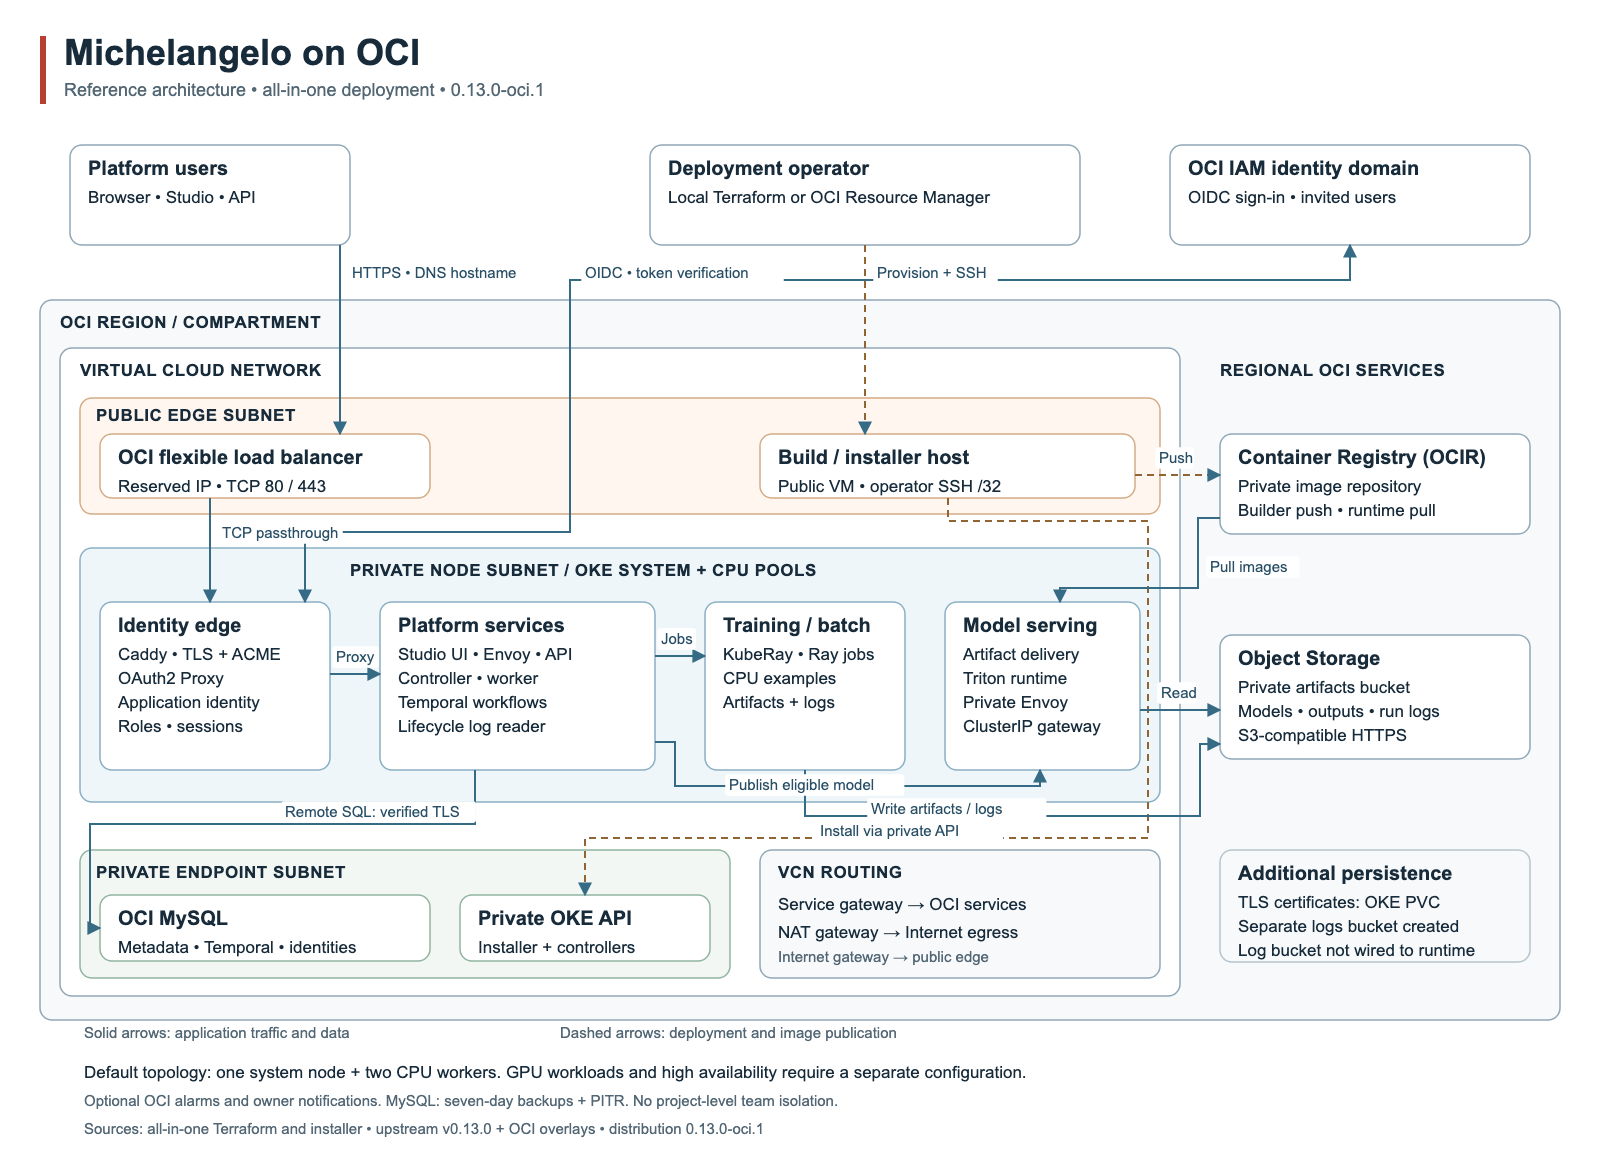
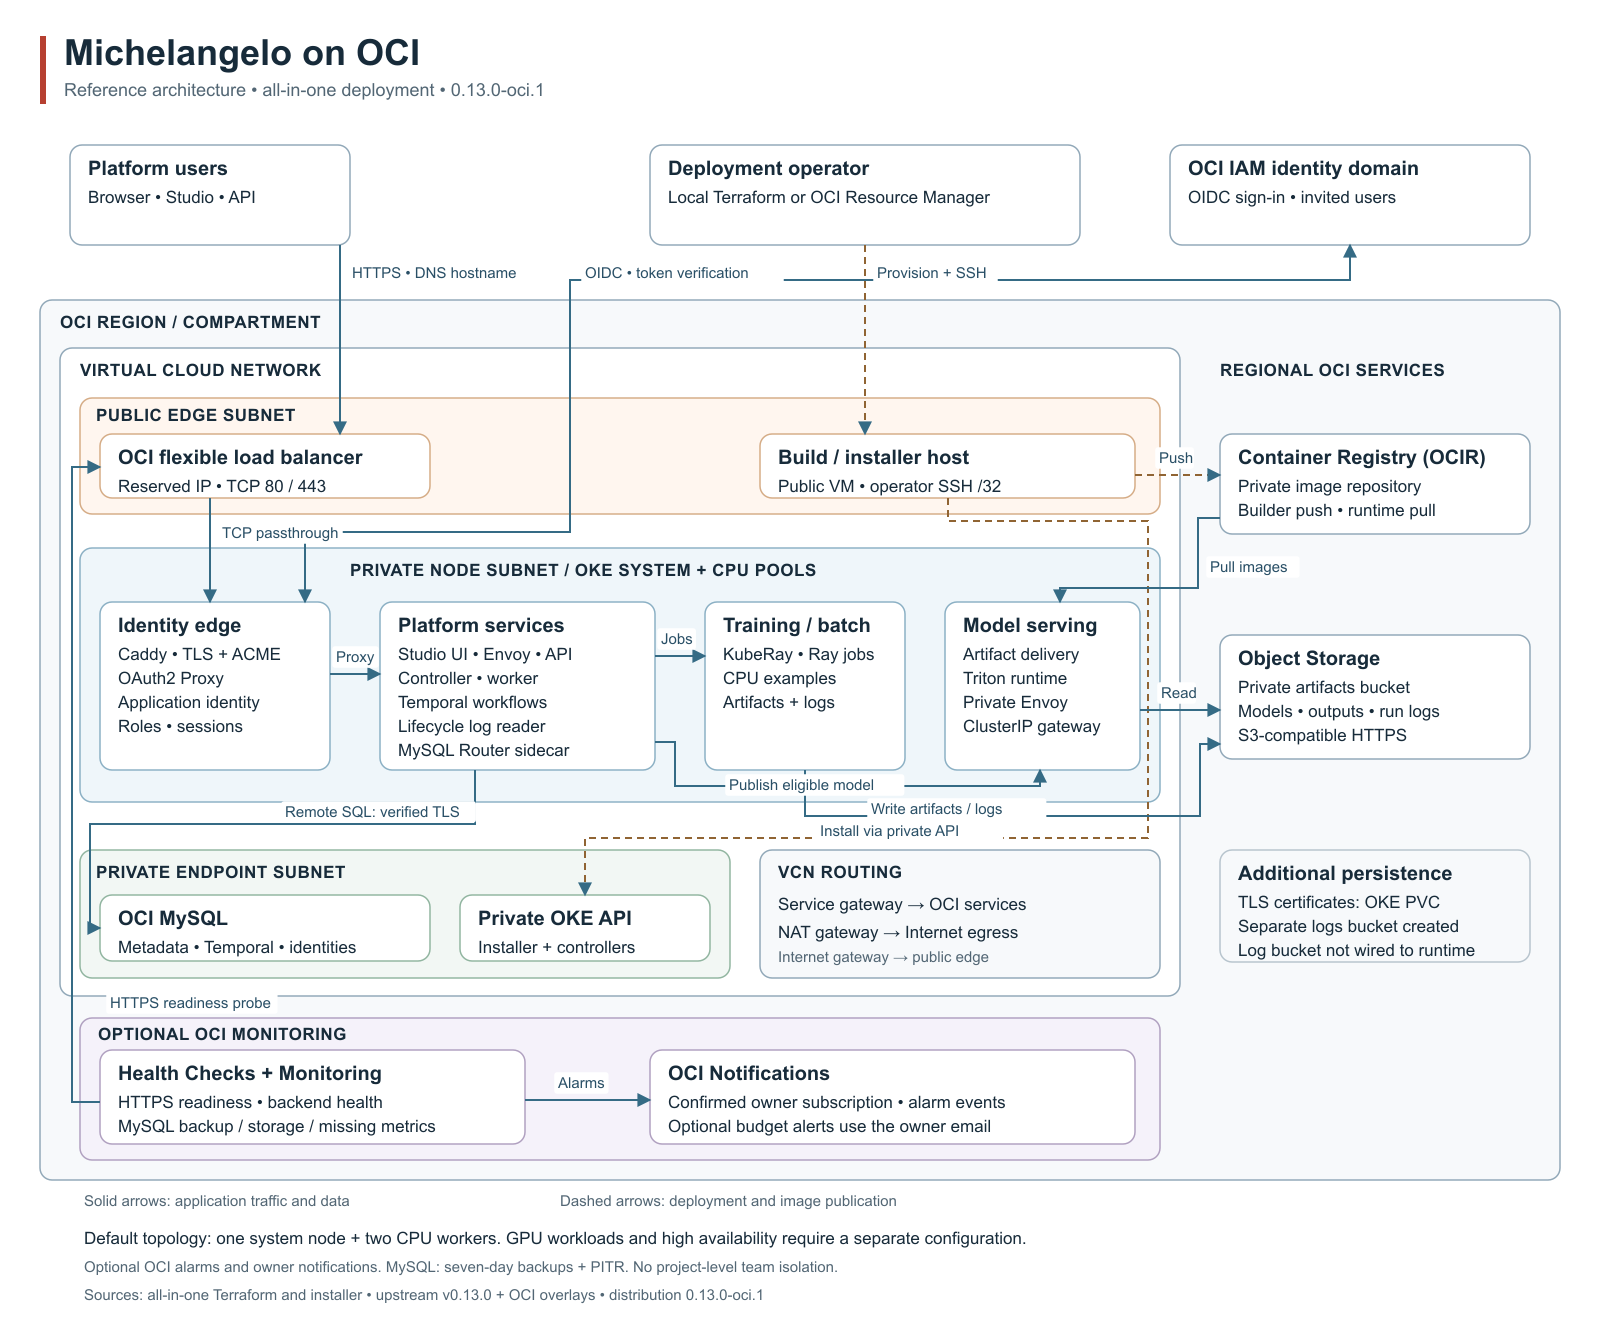
docs: refresh public guides and architecture diagram [skip ci]

Changed region(s): [[0.0312, 0.0931, 0.9688, 0.9931], [0.0312, 0.031, 0.3438, 0.1862]]

diff --git a/docs/render-architecture.py b/docs/render-architecture.py
@@ -4,12 +4,12 @@ from html import escape
 from pathlib import Path
 
 OUT = Path(__file__).resolve().parent
-parts = ['''<svg xmlns="http://www.w3.org/2000/svg" width="1600" height="1160" viewBox="0 0 1600 1160" role="img" aria-labelledby="title desc">
+parts = ['''<svg xmlns="http://www.w3.org/2000/svg" width="1600" height="1320" viewBox="0 0 1600 1320" role="img" aria-labelledby="title desc">
 <title id="title">Michelangelo on OCI reference architecture</title>
-<desc id="desc">All-in-one release 0.13.0-oci.1. Public load balancer forwards TCP to Caddy and OAuth2 Proxy on private OKE nodes. OCI IAM authenticates users. Studio, API, controllers and Temporal coordinate Ray training and private Triton serving. MySQL persists metadata, workflow state and identities. Object Storage stores artifacts and lifecycle logs; OCIR holds images. A public build host installs through the private OKE API. The default topology has one system node and two CPU workers; select availability and capacity settings for your workload.</desc>
+<desc id="desc">All-in-one release 0.13.0-oci.1. Public load balancer forwards TCP to Caddy and OAuth2 Proxy on private OKE nodes. OCI IAM authenticates users. Studio, API, controllers and Temporal coordinate Ray training and private Triton serving. MySQL persists metadata, workflow state and identities. Object Storage stores artifacts and lifecycle logs; OCIR holds images. A public build host installs through the private OKE API. Optional OCI Health Checks monitors the public edge and Monitoring sends alarms through OCI Notifications. The default topology has one system node and two CPU workers; select availability and capacity settings for your workload.</desc>
 <defs><marker id="arrow" viewBox="0 0 10 10" refX="9" refY="5" markerWidth="7" markerHeight="7" orient="auto-start-reverse"><path d="M 0 0 L 10 5 L 0 10 z" fill="#356b85"/></marker></defs>
 <style>text{font-family:Arial,Helvetica,sans-serif;fill:#172b3a}.title{font-size:36px;font-weight:700}.subtitle{font-size:18px;fill:#526674}.zone{font-size:17px;font-weight:700;letter-spacing:.5px}.heading{font-size:20px;font-weight:700}.body{font-size:17px}.small{font-size:15px;fill:#526674}.label{font-size:15px;fill:#294f66}</style>
-<rect width="1600" height="1160" fill="#fff"/>
+<rect width="1600" height="1320" fill="#fff"/>
 <rect x="40" y="36" width="6" height="68" fill="#b64031"/>
 ''']
 
@@ -49,7 +49,7 @@ text(64, 96, 'Reference architecture • all-in-one deployment • 0.13.0-oci.1'
 box(70, 145, 280, 100, 'Platform users', ['Browser • Studio • API'])
 box(650, 145, 430, 100, 'Deployment operator', ['Local Terraform or OCI Resource Manager'])
 box(1170, 145, 360, 100, 'OCI IAM identity domain', ['OIDC sign-in • invited users'])
-rect(40, 300, 1520, 720, '#f7f9fb', '#91a8b8')
+rect(40, 300, 1520, 880, '#f7f9fb', '#91a8b8')
 text(60, 328, 'OCI REGION / COMPARTMENT', 'zone')
 rect(60, 348, 1120, 648, '#fff', '#91a8b8')
 text(80, 376, 'VIRTUAL CLOUD NETWORK', 'zone')
@@ -60,7 +60,7 @@ box(760, 434, 375, 64, 'Build / installer host', ['Public VM • operator SSH /3
 rect(80, 548, 1080, 254, '#eff6fa', '#8bb0c4')
 text(350, 576, 'PRIVATE NODE SUBNET  /  OKE SYSTEM + CPU POOLS', 'zone')
 box(100, 602, 230, 168, 'Identity edge', ['Caddy • TLS + ACME', 'OAuth2 Proxy', 'Application identity', 'Roles • sessions'], '#fff', '#8bb0c4')
-box(380, 602, 275, 168, 'Platform services', ['Studio UI • Envoy • API', 'Controller • worker', 'Temporal workflows', 'Lifecycle log reader'], '#fff', '#8bb0c4')
+box(380, 602, 275, 168, 'Platform services', ['Studio UI • Envoy • API', 'Controller • worker', 'Temporal workflows', 'Lifecycle log reader', 'MySQL Router sidecar'], '#fff', '#8bb0c4')
 box(705, 602, 200, 168, 'Training / batch', ['KubeRay • Ray jobs', 'CPU examples', 'Artifacts + logs'], '#fff', '#8bb0c4')
 box(945, 602, 195, 168, 'Model serving', ['Artifact delivery', 'Triton runtime', 'Private Envoy', 'ClusterIP gateway'], '#fff', '#8bb0c4')
 rect(80, 850, 650, 128, '#f2f7f4', '#91b5a0')
@@ -77,6 +77,11 @@ box(1220, 434, 310, 100, 'Container Registry (OCIR)', ['Private image repository
 box(1220, 635, 310, 124, 'Object Storage', ['Private artifacts bucket', 'Models • outputs • run logs', 'S3-compatible HTTPS'])
 box(1220, 850, 310, 112, 'Additional persistence', ['TLS certificates: OKE PVC', 'Separate logs bucket created', 'Log bucket not wired to runtime'], '#f7f9fb', '#b7c4cd')
 
+rect(80, 1018, 1080, 142, '#f5f2fa', '#b0a0c0')
+text(98, 1040, 'OPTIONAL OCI MONITORING', 'zone')
+box(100, 1050, 425, 94, 'Health Checks + Monitoring', ['HTTPS readiness • backend health', 'MySQL backup / storage / missing metrics'], '#fff', '#b0a0c0')
+box(650, 1050, 485, 94, 'OCI Notifications', ['Confirmed owner subscription • alarm events', 'Optional budget alerts use the owner email'], '#fff', '#b0a0c0')
+
 # Runtime paths are solid; operator/build paths are dashed.
 edge('340,245 340,434', 'HTTPS • DNS hostname', 352, 278)
 edge('210,498 210,602', 'TCP passthrough', 222, 538)
@@ -91,12 +96,14 @@ edge('1135,475 1220,475', 'Push', 1159, 463, dashed=True)
 edge('1220,518 1198,518 1198,588 1060,588 1060,602', 'Pull images', 1210, 572)
 edge('1140,710 1220,710', 'Read', 1161, 698)
 edge('805,770 805,816 1200,816 1200,744 1220,744', 'Write artifacts / logs', 871, 814)
+edge('100,1102 72,1102 72,467 100,467', 'HTTPS readiness probe', 110, 1008)
+edge('525,1100 650,1100', 'Alarms', 558, 1088)
 parts.extend(labels)
-text(84, 1038, 'Solid arrows: application traffic and data', 'small')
-text(560, 1038, 'Dashed arrows: deployment and image publication', 'small')
-text(84, 1078, 'Default topology: one system node + two CPU workers. GPU workloads and high availability require a separate configuration.', 'body')
-text(84, 1106, 'Optional OCI alarms and owner notifications. MySQL: seven-day backups + PITR. No project-level team isolation.', 'small')
-text(84, 1134, 'Sources: all-in-one Terraform and installer • upstream v0.13.0 + OCI overlays • distribution 0.13.0-oci.1', 'small')
+text(84, 1206, 'Solid arrows: application traffic and data', 'small')
+text(560, 1206, 'Dashed arrows: deployment and image publication', 'small')
+text(84, 1244, 'Default topology: one system node + two CPU workers. GPU workloads and high availability require a separate configuration.', 'body')
+text(84, 1272, 'Optional OCI alarms and owner notifications. MySQL: seven-day backups + PITR. No project-level team isolation.', 'small')
+text(84, 1300, 'Sources: all-in-one Terraform and installer • upstream v0.13.0 + OCI overlays • distribution 0.13.0-oci.1', 'small')
 parts.append('</svg>\n')
 (OUT / 'architecture.svg').write_text('\n'.join(parts))
 print('Generated docs/architecture.svg')

diff --git a/docs/architecture.md b/docs/architecture.md
@@ -12,11 +12,13 @@ This view documents the source of the all-in-one **0.13.0-oci.1** package, using
 4. **Deployment:** local Terraform or OCI Resource Manager provisions resources and invokes the public build host over SSH. Local access is restricted to the operator IPv4 `/32`; Resource Manager can use its optional private endpoint, omitted from this overview. The host builds from pinned source plus overlays, publishes images to private OCIR, and installs through the private OKE API. Runtime workloads pull images using the configured reader credentials. Publisher and reader machine accounts are separate from human Studio users. Keep the host available for reruns and upgrades; it may be stopped between installer runs.
 5. **Routing:** the public edge uses an Internet Gateway. Private subnets route OCI service-network traffic through a Service Gateway and other outbound Internet traffic through a NAT Gateway. The build host also downloads upstream source and dependencies; DNS and ACME certificate issuance are external prerequisites. Gateway routing is shown as a note to keep the component flows readable. Arrows summarize primary dependencies, not every network connection or port.
 
+6. **Monitoring:** when an owner notification address is configured, OCI Health Checks probes the public OAuth2 readiness endpoint every 60 seconds. OCI Monitoring alarms cover failed or missing edge checks, load-balancer backend health, and MySQL backup, storage, and missing-metric signals; OCI Notifications sends alerts to the confirmed owner subscription. Optional budget alerts use the configured owner address. These checks complement authenticated application and model monitoring.
+
 ## Scope and operating limits
 
 This customer-operated configuration uses one system node and two CPU workers by default. High availability and project-level team isolation are outside its scope. The upstream bundled monitoring stack is disabled; the package provides optional OCI alarms and owner notifications. See [operations](operations.md) for backup, recovery, upgrades, and resource inspection.
 
-## Evidence in the deployment source
+## Deployment source
 
 These links identify the files in the GitHub source repository; extracted release ZIPs retain this guide and its images.
 
@@ -30,4 +32,5 @@ These links identify the files in the GitHub source repository; extracted releas
 | TCP load balancer, Caddy and OAuth2 Proxy | [installer/auth.py](https://github.com/subhanchaudry/michelangelo-on-oci/blob/main/all-in-one/installer/auth.py) |
 | Persistent application identities | [installer/identity.py](https://github.com/subhanchaudry/michelangelo-on-oci/blob/main/all-in-one/installer/identity.py) |
 | Temporal, KubeRay, internal Envoy Gateway, images and Helm | [installer/install.py](https://github.com/subhanchaudry/michelangelo-on-oci/blob/main/all-in-one/installer/install.py) |
+| Optional health checks, alarms, notifications, and budget alerts | [monitoring.tf](https://github.com/subhanchaudry/michelangelo-on-oci/blob/main/all-in-one/monitoring.tf) |
 | Runtime artifact and log configuration | [installer/runtime.py](https://github.com/subhanchaudry/michelangelo-on-oci/blob/main/all-in-one/installer/runtime.py) |

diff --git a/.github/RELEASING.md b/.github/RELEASING.md
@@ -29,9 +29,9 @@ python3 -B scripts/release-gate.py init \
 
 Initialization creates pending records. Complete entries only from observed, reviewed results and hash-bound evidence. Use `check` with identical arguments to evaluate the records. Evidence paths must remain inside their respective record directory.
 
-Four second-human access exercises are explicitly excluded by the release owner's instruction. They are never reported as passed. Automated authorization and revocation regressions remain required. Studio logs and outputs are verified separately from upstream resource panels labeled Coming soon.
+The public-release acceptance profile records its explicit access-check exclusions. Report exclusions separately from completed checks. Automated authorization and revocation regressions remain required. Studio logs and outputs are verified separately from upstream resource panels labeled Coming soon.
 
-The public-release profile requires complete fresh installation, rerun, lifecycle, failure/recovery, independent full-site restoration, notifications, source review, and inventory evidence. It does not require migration of the existing pilot, and never authorizes cutover or resource deletion.
+The public-release profile requires complete fresh installation, rerun, lifecycle, failure/recovery, independent full-site restoration, notifications, source review, and inventory evidence. It does not require migration of an existing installation, and never authorizes cutover or resource deletion.
 
 ## Security and provenance
 
@@ -43,4 +43,4 @@ The `package_source_provenance` record must show the final Git revision, clean c
 
 ## Handoff
 
-Prepare the private release PR, downloadable ZIPs and checksums, dependency inventory, and private verification report. Retain upstream licenses and notices. Do not publish raw evidence or private deployment values. Merge, publish the release, and change repository visibility only after the release owner's final review.
+Prepare the release pull request, downloadable ZIPs and checksums, dependency inventory, and protected verification report. Retain upstream licenses and notices. Do not publish raw evidence or private deployment values. Merge, publish the release, and change repository visibility only after the release owner's final review.

diff --git a/docs/operations.md b/docs/operations.md
@@ -30,6 +30,14 @@ Before a consistent recovery checkpoint, pause submissions and schedules, drain 
 
 Preserve new writes before reverting to an older database. This distribution does not automatically migrate an existing site's history or delete its resources.
 
+### Resource metadata reconciliation
+
+Preserve the destination's original database, configuration, resource inventory, and deployment replica settings before changing recovered connections. Keep submissions, schedules, workflow execution, and serving paused during reconciliation.
+
+Compare source and destination catalog entries by resource kind, namespace, name, persisted metadata identity, and ownership references. Independent workflow runs can produce different catalogs. Review shared entries, source-only entries, and destination-only entries explicitly; similar generated names do not establish a mapping. Preserve the source history and the destination's rollback material. Stop for review when a mapping, finalizer, or dependent workload is unresolved.
+
+After reconciliation, start the application through the normal installer and confirm historical workflow access, artifact integrity, and model execution. Rerun installation and confirm that recovered connections and data persist before completing the recovery cutover.
+
 ### Retaining restored connections
 
 After restoring and verifying the database and artifact inventory, retain the recovered connections in `/opt/michelangelo/.runtime/recovery-connections.json` on the destination build host. The installer reads this protected profile on every installation, including when Terraform supplies the original site configuration again. It writes the effective configuration back to the protected installer configuration file. The destination keeps its cluster, OCI IAM client, registry access, network settings, and region.

diff --git a/README.md b/README.md
@@ -10,6 +10,8 @@ The distribution combines pinned upstream source with OCI deployment infrastruct
 
 ![Michelangelo on OCI architecture](docs/architecture.svg)
 
+[Architecture guide](docs/architecture.md) · [Download diagram (PNG)](docs/architecture.png)
+
 ## Choose a deployment path
 
 | Package | Includes | Use |
@@ -28,6 +30,8 @@ Use **all-in-one** for a complete installation. Each path owns an independent Te
 4. Follow the [operations guide](docs/operations.md) for access, model workflows, monitoring, backup, and recovery.
 
 ## Documentation
+
+The guides cover the all-in-one installation and the separate infrastructure foundations.
 
 - [Architecture](docs/architecture.md): components, request flows, and deployment boundaries.
 - [Installation](docs/installation.md): local Terraform and OCI Resource Manager instructions.
